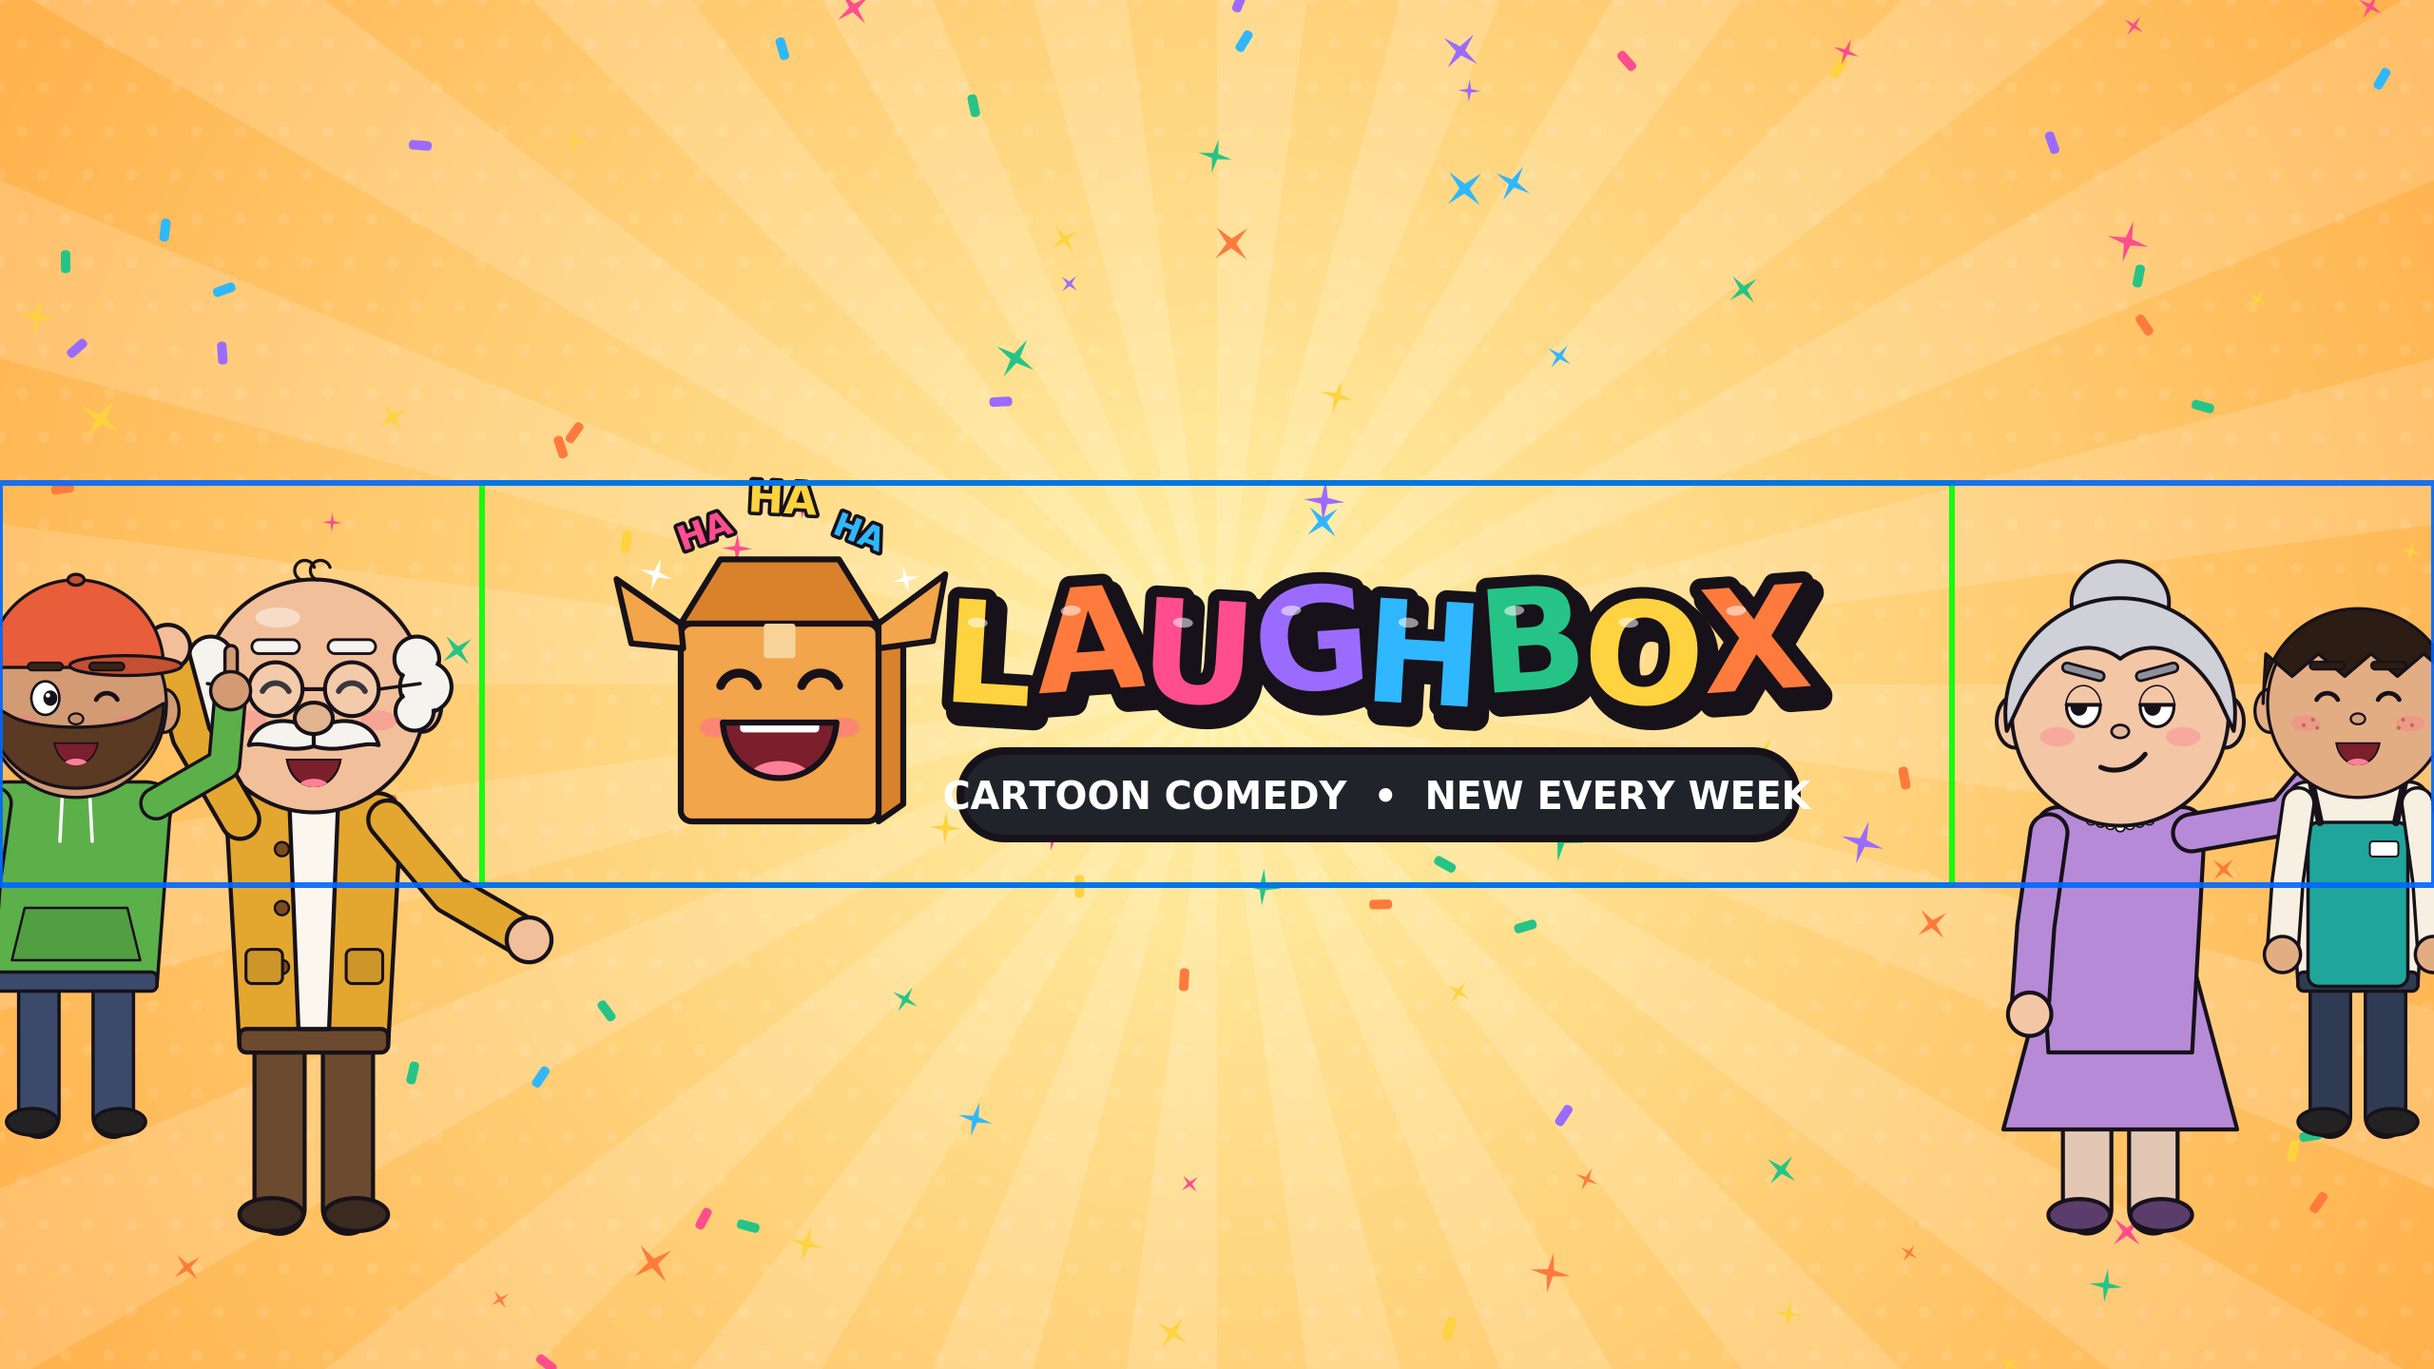
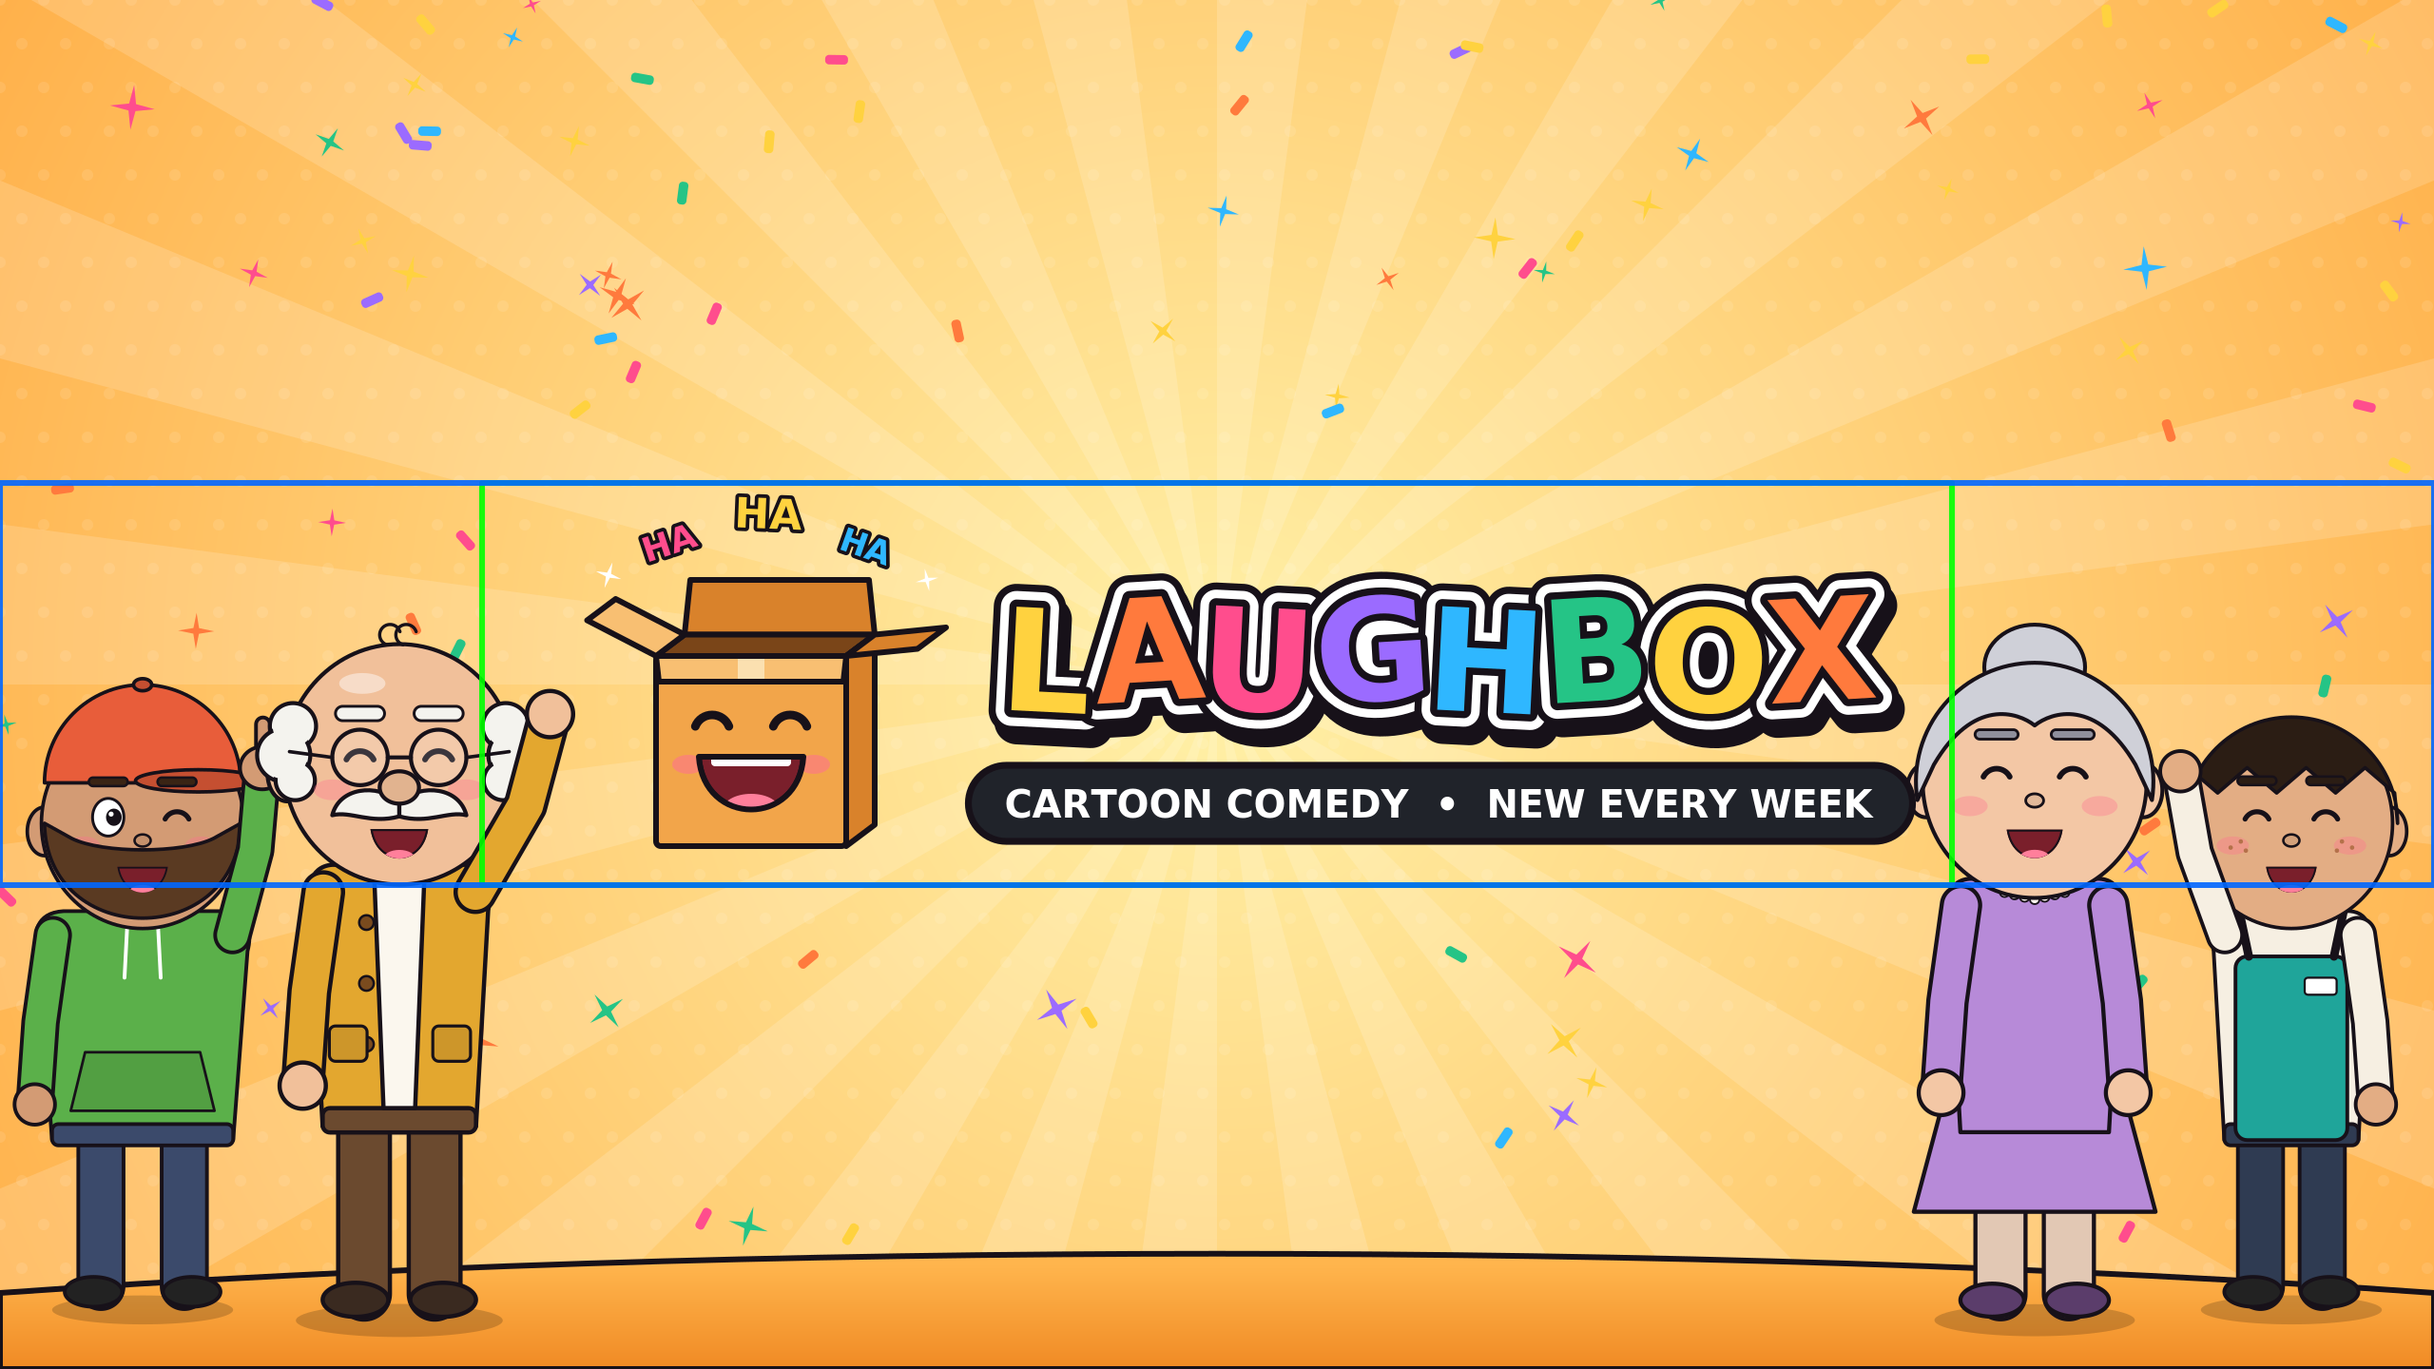
Polish Laughbox brand kit: redrawn box mascot, sticker wordmark, fitted tagline, stage floor

diff --git a/branding/laughbox/make_branding.py b/branding/laughbox/make_branding.py
@@ -1,5 +1,5 @@
 #!/usr/bin/env python3
-"""Render the Laughbox brand kit (logo, avatars, banners, watermark) with Cairo.
+"""Render the Laughbox brand kit (logo, avatar, banners, watermark) with Cairo.
 
   python make_branding.py OUT_DIR
 
@@ -8,6 +8,7 @@ art matches the videos.
 """
 import math
 import os
+import random
 import sys
 
 import cairo
@@ -19,109 +20,141 @@ from make_video import (GRANDMA, GRANDPA, INK, PI, SHOPPER, TEEN, ell, fill_ol, 
                         poly, rrect, setc, star4)
 
 BOX = "#f2a54a"
+BOX_LIGHT = "#f8bf72"
 BOX_DARK = "#d9822b"
 SUN = "#ffd23f"
 PINK = "#ff4d8d"
-TEAL = "#1fa59a"
 LETTER_COLS = ["#ffd23f", "#ff7a3d", "#ff4d8d", "#9b6bff", "#2fb7ff", "#25c486", "#ffd23f", "#ff7a3d"]
+TAGLINE = "CARTOON COMEDY  \u2022  NEW EVERY WEEK"
 
 
 # ---------------------------------------------------------------- mascot
-def mascot(ctx, cx, cy, s):
-    """Laughing cardboard box. (cx, cy) is the centre of the box front; s=1 -> box 400 px wide."""
+def _ha_burst(ctx):
+    for x, y, rot, size, col in ((-170, -440, -0.32, 72, PINK), (40, -500, 0.04, 88, SUN),
+                                 (245, -430, 0.34, 68, "#2fb7ff")):
+        ctx.save()
+        ctx.translate(x, y)
+        ctx.rotate(rot)
+        mv.text(ctx, "HA", 0, 0, size, col, ol=15)
+        ctx.restore()
+    star4(ctx, -300, -370, 28, "#ffffff", 0.3)
+    star4(ctx, 370, -360, 24, "#ffffff", -0.2)
+
+
+def mascot(ctx, cx, cy, s, ha=True):
+    """Laughing open cardboard box. (cx, cy) = centre of the front face; s=1 -> front face 400 px."""
     ctx.save()
     ctx.translate(cx, cy)
     ctx.scale(s, s)
     ol = 12
-    # flying "HA"s and stars behind the lid
-    for x, y, rot, size, col in ((-150, -390, -0.35, 70, PINK), (10, -455, 0.05, 86, SUN),
-                                 (165, -385, 0.38, 66, "#2fb7ff")):
-        ctx.save()
-        ctx.translate(x, y)
-        ctx.rotate(rot)
-        mv.text(ctx, "HA", 0, 0, size, col, ol=14)
-        ctx.restore()
-    star4(ctx, -250, -300, 34, "#ffffff", 0.3)
-    star4(ctx, 255, -290, 28, "#ffffff", -0.2)
-    # back flaps
-    poly(ctx, [(-200, -200), (-120, -330), (120, -330), (200, -200)], close=True)
+    dx, dy = 60, -45  # depth offset of the back edge
+    if ha:
+        _ha_burst(ctx)
+    fl, fr = (-200, -200), (200, -200)
+    bl, br = (fl[0] + dx, fl[1] + dy), (fr[0] + dx, fr[1] + dy)
+    # back flap standing up
+    poly(ctx, [bl, br, (br[0] - 12, br[1] - 115), (bl[0] + 12, bl[1] - 115)], close=True)
     fill_ol(ctx, BOX_DARK, ol)
-    # box body (slight 3-D side)
-    poly(ctx, [(200, -200), (250, -235), (250, 165), (200, 200)], close=True)
+    # dark inside of the box
+    poly(ctx, [fl, fr, br, bl], close=True)
+    fill_ol(ctx, "#7a4518", ol)
+    # right side face
+    poly(ctx, [fr, br, (br[0], 200 + dy), (200, 200)], close=True)
     fill_ol(ctx, BOX_DARK, ol)
-    rrect(ctx, -200, -200, 400, 400, 22)
+    # front face
+    rrect(ctx, -200, -200, 400, 400, 10)
     fill_ol(ctx, BOX, ol)
-    # side flaps flung open like waving arms
-    poly(ctx, [(-200, -200), (-330, -290), (-300, -160), (-195, -150)], close=True)
-    fill_ol(ctx, BOX, ol)
-    poly(ctx, [(200, -200), (335, -300), (310, -165), (200, -150)], close=True)
-    fill_ol(ctx, BOX, ol)
-    # packing tape
-    rrect(ctx, -32, -200, 64, 70, 6)
-    setc(ctx, "#f7d39a")
+    # side flaps hinged on the top edges, flung outward like waving arms
+    poly(ctx, [fl, bl, (bl[0] - 145, bl[1] - 75), (fl[0] - 145, fl[1] - 75)], close=True)
+    fill_ol(ctx, BOX_LIGHT, ol)
+    poly(ctx, [fr, br, (br[0] + 150, br[1] - 15), (fr[0] + 150, fr[1] - 15)], close=True)
+    fill_ol(ctx, BOX_DARK, ol)
+    # front flap folded down over the top of the face, with packing tape
+    poly(ctx, [fl, fr, (194, -146), (-194, -146)], close=True)
+    fill_ol(ctx, BOX_LIGHT, ol)
+    ctx.rectangle(-28, -194, 56, 42)
+    setc(ctx, "#fbe0b0")
     ctx.fill()
     # face: happy closed eyes, rosy cheeks, big laughing mouth
+    ctx.set_line_cap(cairo.LINE_CAP_ROUND)
     for sd in (-1, 1):
         ctx.new_path()
-        ctx.arc(sd * 82, -60, 40, PI * 1.12, PI * 1.88)
+        ctx.arc(sd * 82, -38, 38, PI * 1.12, PI * 1.88)
         ctx.set_source_rgba(*INK)
         ctx.set_line_width(18)
-        ctx.set_line_cap(cairo.LINE_CAP_ROUND)
         ctx.stroke()
-        ell(ctx, sd * 128, 10, 34, 20)
+        ell(ctx, sd * 132, 28, 34, 20)
         setc(ctx, "#ff6f91", 0.55)
         ctx.fill()
-    ctx.new_path()
-    ctx.move_to(-115, 0)
-    ctx.curve_to(-105, 150, 105, 150, 115, 0)
-    ctx.close_path()
+
+    def mouth():
+        ctx.new_path()
+        ctx.move_to(-110, 12)
+        ctx.curve_to(-100, 160, 100, 160, 110, 12)
+        ctx.close_path()
+
+    mouth()
     ctx.save()
     ctx.clip_preserve()
     fill_ol(ctx, "#7a1f2b", ol)
-    rrect(ctx, -80, -10, 160, 30, 8)
+    rrect(ctx, -84, 4, 168, 28, 8)
     setc(ctx, "#ffffff")
     ctx.fill()
-    ell(ctx, 0, 112, 62, 34)
+    ell(ctx, 0, 124, 60, 34)
     setc(ctx, "#ff7f9b")
     ctx.fill()
     ctx.restore()
-    ctx.new_path()
-    ctx.move_to(-115, 0)
-    ctx.curve_to(-105, 150, 105, 150, 115, 0)
-    ctx.close_path()
+    mouth()
     ctx.set_source_rgba(*INK)
     ctx.set_line_width(ol)
     ctx.stroke()
     ctx.restore()
 
 
-def wordmark(ctx, cx, cy, size, word="LAUGHBOX", tilt=True):
-    """Bouncy, multi-colour letters; returns total width."""
+def wordmark(ctx, cx, cy, size, word="LAUGHBOX"):
+    """Bouncy multi-colour sticker letters centred on (cx, cy); returns total width."""
     ctx.select_font_face("DejaVu Sans", cairo.FONT_SLANT_NORMAL, cairo.FONT_WEIGHT_BOLD)
     ctx.set_font_size(size)
-    adv = [ctx.text_extents(ch)[4] * 0.96 for ch in word]
+    adv = [ctx.text_extents(ch)[4] * 0.97 for ch in word]
     total = sum(adv)
-    x = cx - total / 2
-    for i, ch in enumerate(word):
-        lx = x + adv[i] / 2
-        dy = (-0.06 if i % 2 else 0.04) * size if tilt else 0
-        rot = (-0.07 if i % 2 else 0.06) if tilt else 0
-        for pass_ in ("shadow", "main"):
+    # passes drawn across all letters so outlines never cut into neighbours
+    for pass_ in ("shadow", "white", "main"):
+        x = cx - total / 2
+        for i, ch in enumerate(word):
             ctx.save()
-            ox, oy = (size * 0.05, size * 0.07) if pass_ == "shadow" else (0, 0)
-            ctx.translate(lx + ox, cy + dy + oy)
-            ctx.rotate(rot)
+            ox, oy = (size * 0.04, size * 0.08) if pass_ == "shadow" else (0, 0)
+            ctx.translate(x + adv[i] / 2 + ox, cy + (-0.05 if i % 2 else 0.03) * size + oy)
+            ctx.rotate(-0.06 if i % 2 else 0.05)
             if pass_ == "shadow":
-                mv.text(ctx, ch, 0, 0, size, (0.09, 0.07, 0.10, 0.9), ol=size * 0.2)
-            else:
-                mv.text(ctx, ch, 0, 0, size, LETTER_COLS[i % len(LETTER_COLS)], ol=size * 0.16)
+                mv.text(ctx, ch, 0, 0, size, (0.09, 0.07, 0.10, 0.85), ol=size * 0.32)
+            elif pass_ == "white":
+                # dark rim then white sticker border
+                mv.text(ctx, ch, 0, 0, size, "#ffffff", ol=size * 0.32)
+                xb, yb, tw, th, _, _ = ctx.text_extents(ch)
                 ctx.new_path()
-                ell(ctx, -size * 0.12, -size * 0.2, size * 0.07, size * 0.035)
-                setc(ctx, "#ffffff", 0.55)
-                ctx.fill()
+                ctx.move_to(-tw / 2 - xb, -th / 2 - yb)
+                ctx.text_path(ch)
+                setc(ctx, "#ffffff")
+                ctx.set_line_width(size * 0.22)
+                ctx.set_line_join(cairo.LINE_JOIN_ROUND)
+                ctx.stroke()
+            else:
+                mv.text(ctx, ch, 0, 0, size, LETTER_COLS[i % len(LETTER_COLS)], ol=size * 0.1)
             ctx.restore()
-        x += adv[i]
+            x += adv[i]
     return total
+
+
+def pill(ctx, s, cx, cy, size):
+    """Dark rounded label sized to its text."""
+    ctx.select_font_face("DejaVu Sans", cairo.FONT_SLANT_NORMAL, cairo.FONT_WEIGHT_BOLD)
+    ctx.set_font_size(size)
+    tw = ctx.text_extents(s)[2]
+    h = size * 2.0
+    pad = size * 1.0
+    rrect(ctx, cx - tw / 2 - pad, cy - h / 2, tw + 2 * pad, h, h / 2)
+    fill_ol(ctx, "#20232a", size * 0.18)
+    mv.text(ctx, s, cx, cy, size, "#ffffff")
 
 
 # ---------------------------------------------------------------- backgrounds
@@ -151,23 +184,51 @@ def dots(ctx, w, h, col="#ffffff", a=0.18, step=46):
     ctx.fill()
 
 
-def confetti(ctx, w, h, seed=4, n=60, region=None):
-    import random
+def confetti(ctx, w, h, seed=4, n=60, avoid=()):
+    """Scattered stars and streamers, kept out of the `avoid` rectangles (x0, y0, x1, y1)."""
     rnd = random.Random(seed)
-    x0, y0, x1, y1 = region or (0, 0, w, h)
-    for _ in range(n):
-        x, y = rnd.uniform(x0, x1), rnd.uniform(y0, y1)
+    placed = 0
+    while placed < n:
+        x, y = rnd.uniform(0, w), rnd.uniform(0, h)
         col = rnd.choice(LETTER_COLS)
-        if rnd.random() < 0.5:
-            star4(ctx, x, y, rnd.uniform(10, 24), col, rnd.uniform(0, 1))
+        size, rot, kind = rnd.uniform(10, 24), rnd.uniform(0, PI), rnd.random()
+        if any(x0 <= x <= x1 and y0 <= y <= y1 for x0, y0, x1, y1 in avoid):
+            continue
+        placed += 1
+        if kind < 0.5:
+            star4(ctx, x, y, size, col, rot)
         else:
             ctx.save()
             ctx.translate(x, y)
-            ctx.rotate(rnd.uniform(0, PI))
+            ctx.rotate(rot)
             rrect(ctx, -12, -5, 24, 10, 4)
             setc(ctx, col)
             ctx.fill()
             ctx.restore()
+
+
+def ground(ctx, w, h, top):
+    """Soft curved stage floor so characters stand on something."""
+    ctx.new_path()
+    ctx.move_to(0, top + 30)
+    ctx.curve_to(w * 0.3, top - 25, w * 0.7, top - 25, w, top + 30)
+    ctx.line_to(w, h)
+    ctx.line_to(0, h)
+    ctx.close_path()
+    g = cairo.LinearGradient(0, top, 0, h)
+    g.add_color_stop_rgb(0, *mv.C("#ffb54d")[:3])
+    g.add_color_stop_rgb(1, *mv.C("#f08a24")[:3])
+    ctx.set_source(g)
+    ctx.fill_preserve()
+    ctx.set_source_rgba(*INK)
+    ctx.set_line_width(6)
+    ctx.stroke()
+
+
+def shadow(ctx, x, y, rx):
+    ell(ctx, x, y, rx, rx * 0.16)
+    setc(ctx, "#000000", 0.18)
+    ctx.fill()
 
 
 def surface(w, h, alpha=False):
@@ -175,10 +236,16 @@ def surface(w, h, alpha=False):
     return s, cairo.Context(s)
 
 
+def cast(ctx, x, y, s, P, expr, look, pose=None, floor=True):
+    if floor:
+        shadow(ctx, x, y + 14 * s, 170 * s)
+    person(ctx, x, y, s, P, expr=expr, t=0.0, look=look, pose=pose, blink=False)
+
+
 # ---------------------------------------------------------------- assets
 def logo(out):
     s, ctx = surface(2000, 1300, alpha=True)
-    mascot(ctx, 1000, 560, 1.05)
+    mascot(ctx, 975, 600, 1.0)
     wordmark(ctx, 1000, 1080, 230)
     s.write_to_png(os.path.join(out, "laughbox-logo.png"))
 
@@ -189,44 +256,39 @@ def avatar(out, size=800):
     ctx.scale(k, k)
     sunburst(ctx, 800, 800, 400, 400)
     dots(ctx, 800, 800, a=0.12)
-    # everything important stays inside the circle crop
-    mascot(ctx, 400, 470, 0.95)
+    # whole mascot stays inside the circular crop (radius 400) with margin
+    mascot(ctx, 382, 488, 0.74)
     s.write_to_png(os.path.join(out, f"profile-{size}x{size}.png"))
 
 
 def watermark(out):
     s, ctx = surface(300, 300, alpha=True)
-    ell(ctx, 150, 150, 146, 146)
+    ell(ctx, 150, 150, 145, 145)
     setc(ctx, SUN)
     ctx.fill_preserve()
     ctx.set_source_rgba(*INK)
     ctx.set_line_width(8)
     ctx.stroke()
-    mascot(ctx, 150, 180, 0.36)
+    mascot(ctx, 140, 178, 0.31, ha=False)
     s.write_to_png(os.path.join(out, "watermark-300x300.png"))
-
-
-def cast(ctx, x, y, s, P, expr, look, pose=None):
-    person(ctx, x, y, s, P, expr=expr, t=0.0, look=look, pose=pose, blink=False)
 
 
 def youtube_banner(out):
     W, H = 2560, 1440
     s, ctx = surface(W, H)
-    sunburst(ctx, W, H, W / 2, H / 2)
+    sunburst(ctx, W, H, W / 2, 720)
     dots(ctx, W, H, a=0.1)
-    confetti(ctx, W, H, n=110)
-    # characters sit outside the 1546x423 all-device safe area (visible on desktop/TV)
-    cast(ctx, 330, 1290, 0.62, GRANDPA, "victory", (0.5, 0), dict(la1=-150, la2=-165, ra1=40, ra2=60))
-    cast(ctx, 2230, 1290, 0.6, GRANDMA, "smug", (-0.6, 0), dict(ra1=100, ra2=140))
-    cast(ctx, 2480, 1190, 0.5, TEEN, "happy", (-0.8, 0))
-    cast(ctx, 80, 1190, 0.5, SHOPPER, "wink", (0.8, 0), dict(thumb=True, ra1=120, ra2=175))
+    ground(ctx, W, H, 1330)
+    confetti(ctx, W, H, n=110, avoid=[(560, 450, 2010, 960), (0, 1300, W, H)])
+    # characters sit outside the 1546x423 all-device safe area; heads show on desktop, full bodies on TV
+    cast(ctx, 150, 1370, 0.56, SHOPPER, "wink", (0.8, 0), dict(thumb=True, ra1=165, ra2=175))
+    cast(ctx, 420, 1380, 0.64, GRANDPA, "victory", (0.6, 0), dict(ra1=150, ra2=165))
+    cast(ctx, 2140, 1380, 0.62, GRANDMA, "happy", (-0.6, 0))
+    cast(ctx, 2410, 1370, 0.56, TEEN, "happy", (-0.8, 0), dict(la1=-160, la2=-170))
     # logo + tagline inside the safe area (x 507-2053, y 508-931)
-    mascot(ctx, 820, 760, 0.52)
-    wordmark(ctx, 1450, 680, 150)
-    rrect(ctx, 1010, 790, 880, 92, 46)
-    fill_ol(ctx, "#20232a", 8)
-    mv.text(ctx, "CARTOON COMEDY  •  NEW EVERY WEEK", 1450, 836, 40, "#ffffff")
+    mascot(ctx, 790, 790, 0.5)
+    wordmark(ctx, 1515, 690, 150)
+    pill(ctx, TAGLINE, 1515, 845, 40)
     s.write_to_png(os.path.join(out, "youtube-banner-2560x1440.png"))
     # review copy with safe areas drawn
     ctx.rectangle(507, 508, 1546, 423)
@@ -244,15 +306,13 @@ def facebook_cover(out):
     s, ctx = surface(W, H)
     sunburst(ctx, W, H, W / 2, H * 0.55)
     dots(ctx, W, H, a=0.1)
-    confetti(ctx, W, H, seed=9, n=70)
-    # mobile crops the sides, so keep logo/text in the centre ~1100 px
-    cast(ctx, 180, 1030, 0.62, GRANDPA, "victory", (0.6, 0), dict(la1=-150, la2=-165, ra1=40, ra2=60))
-    cast(ctx, 1470, 1030, 0.6, GRANDMA, "smug", (-0.6, 0), dict(ra1=100, ra2=140))
-    mascot(ctx, 470, 360, 0.5)
-    wordmark(ctx, 990, 300, 106)
-    rrect(ctx, 645, 390, 690, 76, 38)
-    fill_ol(ctx, "#20232a", 7)
-    mv.text(ctx, "CARTOON COMEDY • NEW EVERY WEEK", 990, 428, 31, "#ffffff")
+    confetti(ctx, W, H, seed=9, n=70, avoid=[(300, 80, 1340, 500)])
+    # characters peek in from the edges; logo/text stay in the centre that mobile keeps
+    cast(ctx, 160, 1060, 0.62, GRANDPA, "victory", (0.6, 0), dict(la1=-155, la2=-170), floor=False)
+    cast(ctx, 1490, 1060, 0.6, GRANDMA, "happy", (-0.6, 0), dict(ra1=155, ra2=170), floor=False)
+    mascot(ctx, 470, 380, 0.48)
+    wordmark(ctx, 1000, 290, 104)
+    pill(ctx, TAGLINE, 1000, 420, 29)
     s.write_to_png(os.path.join(out, "facebook-cover-1640x624.png"))
 
 
